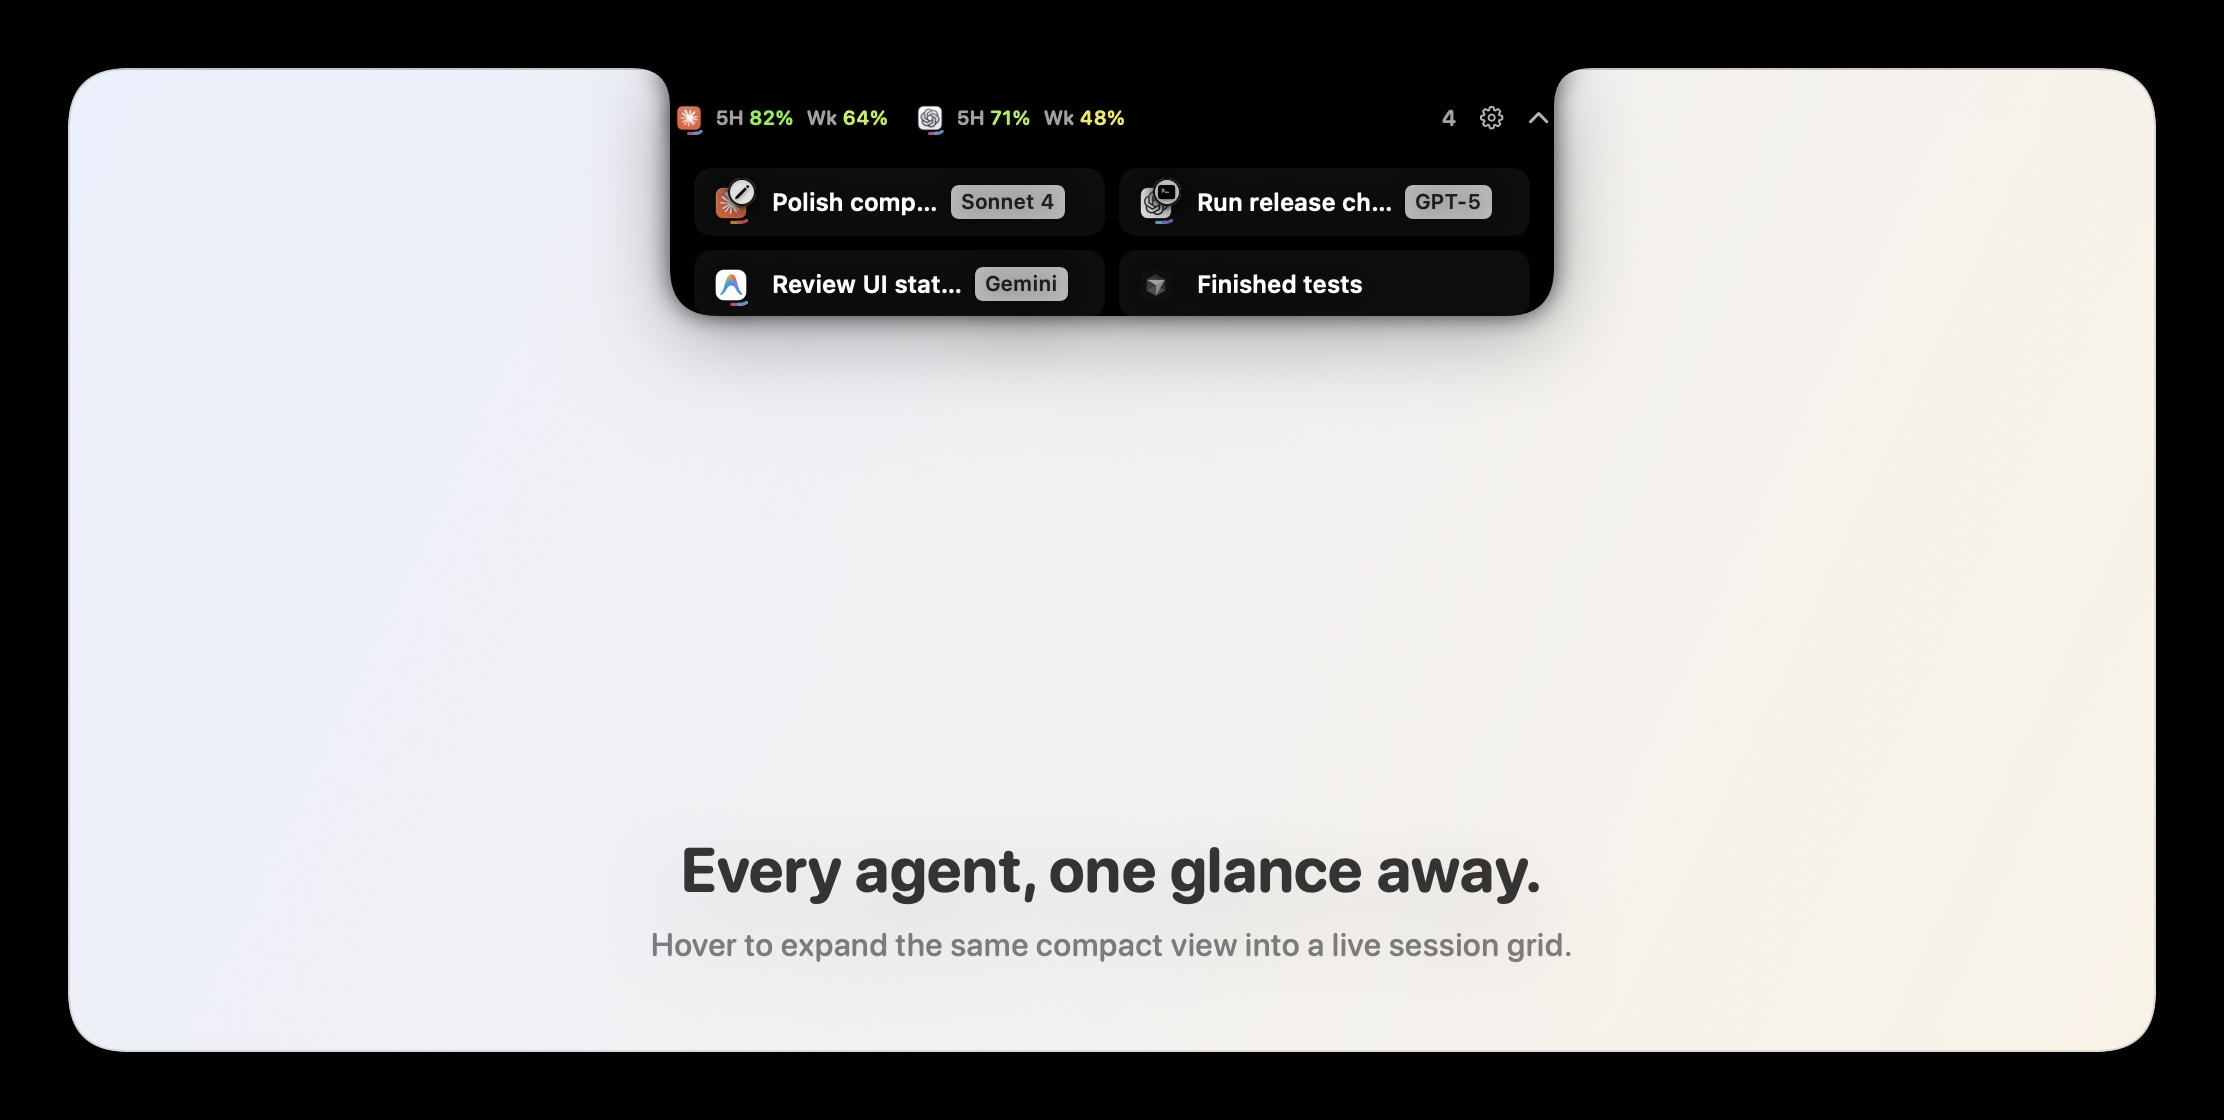
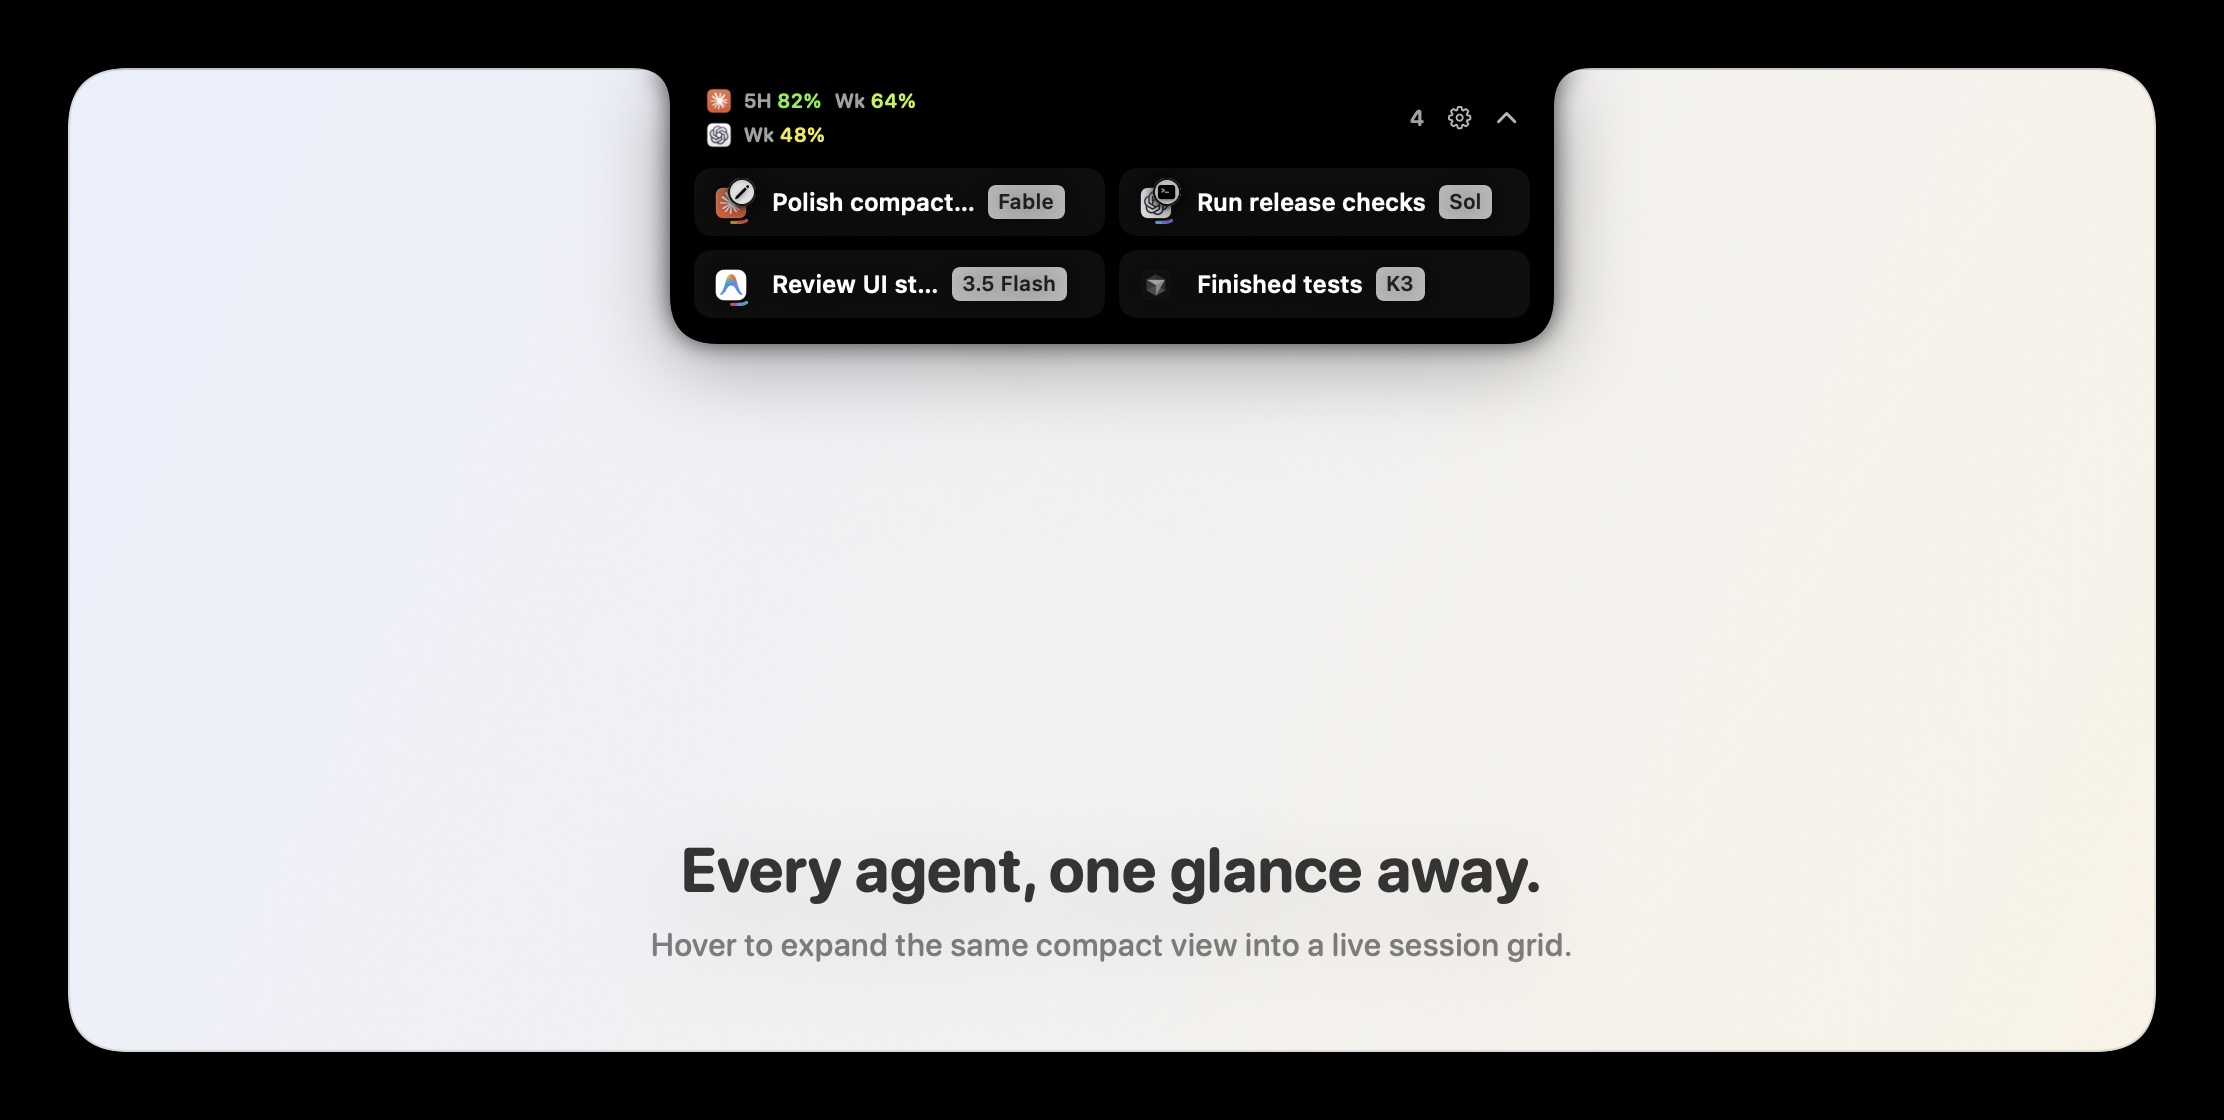
Match README mockup to notch geometry

diff --git a/scripts/render-readme-mockups.swift b/scripts/render-readme-mockups.swift
@@ -204,10 +204,10 @@ private struct MockCanvas<Notch: View>: View {
 
 private struct CollapsedCompactNotch: View {
     private let sessions = [
-        MockSession(provider: .claude, title: "Polish compact notch", model: "Sonnet 4", activity: .editing),
-        MockSession(provider: .codex, title: "Run release checks", model: "GPT-5", activity: .running),
-        MockSession(provider: .antigravity, title: "Review UI states", model: "Gemini", activity: .thinking),
-        MockSession(provider: .cursor, title: "Finished tests", model: nil, activity: .done),
+        MockSession(provider: .claude, title: "Polish compact notch", model: "Fable", activity: .editing),
+        MockSession(provider: .codex, title: "Run release checks", model: "Sol", activity: .running),
+        MockSession(provider: .antigravity, title: "Review UI states", model: "3.5 Flash", activity: .thinking),
+        MockSession(provider: .cursor, title: "Finished tests", model: "K3", activity: .done),
     ]
     private let physicalNotchWidth: CGFloat = 180
 
@@ -282,22 +282,22 @@ private struct MockCompactRow: View {
 
 private struct ExpandedCompactNotch: View {
     private let sessions = [
-        MockSession(provider: .claude, title: "Polish compact notch", model: "Sonnet 4", activity: .editing),
-        MockSession(provider: .codex, title: "Run release checks", model: "GPT-5", activity: .running),
-        MockSession(provider: .antigravity, title: "Review UI states", model: "Gemini", activity: .thinking),
-        MockSession(provider: .cursor, title: "Finished tests", model: nil, activity: .done),
+        MockSession(provider: .claude, title: "Polish compact notch", model: "Fable", activity: .editing),
+        MockSession(provider: .codex, title: "Run release checks", model: "Sol", activity: .running),
+        MockSession(provider: .antigravity, title: "Review UI states", model: "3.5 Flash", activity: .thinking),
+        MockSession(provider: .cursor, title: "Finished tests", model: "K3", activity: .done),
     ]
 
     var body: some View {
         VStack(spacing: 8) {
             HStack(spacing: 0) {
-                HStack(spacing: 12) {
+                VStack(alignment: .leading, spacing: 2) {
                     limitGroup(provider: .claude, fiveHour: 82, weekly: 64)
-                    limitGroup(provider: .codex, fiveHour: 71, weekly: 48)
+                    weeklyLimitGroup(provider: .codex, weekly: 48)
                 }
-                .frame(width: 130, alignment: .leading)
+                .frame(width: 112.5, alignment: .leading)
 
-                Color.clear.frame(width: 180)
+                Color.clear.frame(width: 183)
 
                 HStack(spacing: 10) {
                     Text("4")
@@ -308,7 +308,7 @@ private struct ExpandedCompactNotch: View {
                     Image(systemName: "chevron.up").font(.system(size: 11, weight: .semibold))
                 }
                 .foregroundStyle(.white.opacity(0.72))
-                .frame(width: 130, alignment: .trailing)
+                .frame(width: 112.5, alignment: .trailing)
             }
             .frame(height: 34)
             .padding(.horizontal, 5)
@@ -322,7 +322,7 @@ private struct ExpandedCompactNotch: View {
         .padding(.horizontal, 31)
         .padding(.top, 8)
         .padding(.bottom, 9)
-        .frame(width: 480, height: 124, alignment: .top)
+        .frame(width: 480, height: 138, alignment: .top)
         .background(Color.black)
         .clipShape(TopAttachedNotchShape(topRadius: 19, bottomRadius: 24))
         .overlay(alignment: .top) {
@@ -333,7 +333,7 @@ private struct ExpandedCompactNotch: View {
 
     private func limitGroup(provider: MockProvider, fiveHour: Int, weekly: Int) -> some View {
         HStack(spacing: 5) {
-            MockProviderMark(provider: provider, activity: .thinking, size: 15)
+            limitProviderIcon(provider)
             HStack(spacing: 6) {
                 limitText("5H", fiveHour)
                 limitText("Wk", weekly)
@@ -341,6 +341,23 @@ private struct ExpandedCompactNotch: View {
             .font(.system(size: 9.9, weight: .semibold, design: .rounded))
         }
         .fixedSize(horizontal: true, vertical: true)
+    }
+
+    private func weeklyLimitGroup(provider: MockProvider, weekly: Int) -> some View {
+        HStack(spacing: 5) {
+            limitProviderIcon(provider)
+            limitText("Wk", weekly)
+                .font(.system(size: 9.9, weight: .semibold, design: .rounded))
+        }
+        .fixedSize(horizontal: true, vertical: true)
+    }
+
+    private func limitProviderIcon(_ provider: MockProvider) -> some View {
+        Image(nsImage: MockIconStore.shared.image(for: provider))
+            .resizable()
+            .scaledToFit()
+            .frame(width: 15, height: 15)
+            .clipShape(RoundedRectangle(cornerRadius: 3.6, style: .continuous))
     }
 
     private func limitText(_ label: String, _ value: Int) -> Text {
@@ -465,23 +482,23 @@ private struct OverviewMockup: View {
             )
 
             display
-                .frame(width: 1012, height: 610)
+                .frame(width: 860, height: 470)
                 .shadow(color: .black.opacity(0.28), radius: 18, y: 10)
 
             MockPiPPanel()
-                .offset(y: 45)
+                .offset(y: 55)
 
             VStack(spacing: 5) {
-                Text("Two ways to keep watch")
+                Text("Every agent, one glance away.")
                     .font(.system(size: 28, weight: .bold, design: .rounded))
                     .foregroundStyle(Color.black.opacity(0.78))
                 Text("Compact notch or floating PiP")
                     .font(.system(size: 15, weight: .semibold, design: .rounded))
                     .foregroundStyle(Color.black.opacity(0.48))
             }
-            .offset(y: 225)
+            .offset(y: 190)
         }
-        .frame(width: 1112, height: 680)
+        .frame(width: 1112, height: 520)
     }
 
     private var display: some View {
@@ -553,7 +570,7 @@ private func renderReadmeMockups() throws {
 
     try render(
         OverviewMockup(),
-        size: CGSize(width: 1112, height: 680),
+        size: CGSize(width: 1112, height: 520),
         to: assets.appendingPathComponent("agentpip-overview.jpg")
     )
 